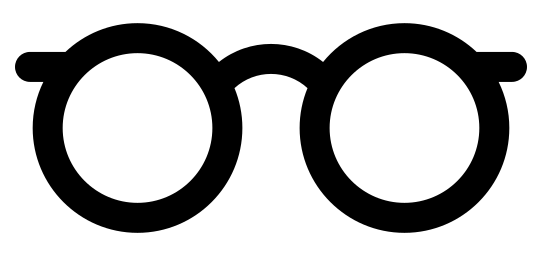
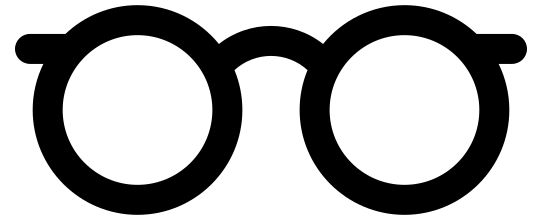
made heart and comment adaptive

diff --git a/script.js b/script.js
@@ -175,59 +175,118 @@ let books = [
 ]
 
 function loadBooks() {
-    const booksLocation = document.getElementById("contentsID");
     for (let index = 0; index < books.length; index++) {
-        booksLocation.innerHTML += `
-         <div class="book-outlay">
-             <div class="book-content">
-             <h2>${books[index].name}</h2>
-             <img class="book-icon" src="./assets/book2.png" alt="Buch Icon"></img>
-                <div class ="price-and-likes">
-                <p>${books[index].price.toFixed(2)} Є</p>
-                    <div class="likes">
-                    <p>${books[index].likes}</p>
-                    <img src="./assets/heart_icon.svg" alt="Herz Icon"></img>
-                    </div>
-                </div>
-             <table class="book-info">
-             <tr>
-                <td><b>Autor:</b></th>
-                <td>${books[index].author}</th>
-             </tr>
-             <tr>
-               <td><b>Erscheinungsjahr:</b></td>
-                <td>${books[index].publishedYear}</td>
-             </tr>
-             <tr>
-                <td><b>Genre:</b></td>
-                <td>${books[index].genre}</td>
-             </tr>
-             </table>
-             <h3>Kommentare:</h3>
-                <div class="comments">
-                ${getComments(index)}
-                </div>
-             </div>
-             <input class="pages" type="text" placeholder="  Schreibe einen Kommentar">
-         </div>
-                
-  `
+        loadBookTemplate(index);
+        renderFavoriteIcon(index);
     }
 }
 
+function loadBookTemplate(index) {
+    const booksLocation = document.getElementById("contentsID");
+    booksLocation.innerHTML += `
+         <div id="book${index}" class="book-outlay">
+             <div class="book-content">
+                 <h2>${books[index].name}</h2>
+                 <img class="book-icon" src="./assets/book2.png" alt="Buch Icon"></img>
+                 <div class ="price-and-likes">
+                    <p>${books[index].price.toFixed(2).toString().replace('.', ',')} Є</p>
+                         <div class="likes">
+                             <p id="likedAmountID${index}">${books[index].likes}</p>
+                             <svg id="heartID${index}" class="heart" xmlns="http://www.w3.org/2000/svg" width="32" height="32" viewBox="0 0 32 32">
+                             <path onmousedown="whileHeartClicking(${index})" onmouseup="adjustFavorite(${index})" d="M16 24.675C15.7667 24.675 15.5292 24.6333 15.2875 24.55C15.0458 24.4667 14.8333 24.3333 14.65 24.15L12.925 22.575C11.1583 20.9583 9.5625 19.3542 8.1375 17.7625C6.7125 16.1708 6 14.4167 6 12.5C6 10.9333 6.525 9.625 7.575 8.575C8.625 7.525 9.93333 7 11.5 7C12.3833 7 13.2167 7.1875 14 7.5625C14.7833 7.9375 15.45 8.45 16 9.1C16.55 8.45 17.2167 7.9375 18 7.5625C18.7833 7.1875 19.6167 7 20.5 7C22.0667 7 23.375 7.525 24.425 8.575C25.475 9.625 26 10.9333 26 12.5C26 14.4167 25.2917 16.175 23.875 17.775C22.4583 19.375 20.85 20.9833 19.05 22.6L17.35 24.15C17.1667 24.3333 16.9542 24.4667 16.7125 24.55C16.4708 24.6333 16.2333 24.675 16 24.675Z"/>
+                             </svg>
+                         </div>
+                 </div>
+                 <table class="book-info">
+                    <tr>
+                        <td><b>Autor:</b></td>
+                        <td>${books[index].author}</td>
+                    </tr>
+                    <tr>
+                        <td><b>Erscheinungsjahr:</b></td>
+                        <td>${books[index].publishedYear}</td>
+                    </tr>
+                    <tr>
+                        <td><b>Genre:</b></td>
+                        <td>${books[index].genre}</td>
+                    </tr>
+                 </table>
+                 <h3>Kommentare:</h3>
+                 <div id="commentsID${index}" class="comments">
+                     ${getComments(index)}
+                 </div>
+             </div> 
+             <div class="pages">
+                 <input id="inputID${index}" class="comment-input" type="text" placeholder="  Schreibe einen Kommentar...">
+                 <img onclick="comment(${index})" class="send-icon" src="./assets/send.png" alt="Send Icon"></img>
+             </div>
+         </div>        
+  `
+}
+
 function getComments(i) {
-    let comments = "";
+    let allComments = "";
     if (books[i].comments.length >= 1) {
-        
         for (let index = 0; index < books[i].comments.length; index++) {
-            comments +=`
+            allComments += `
                 <tr>
                 <td><b>${books[i].comments[index].name}:</b></td>
                 <td>${books[i].comments[index].comment}</td>
                 </tr>`
         }
-        return `<table>${comments}</table>`;
-    } else{
+        return `<table>${allComments}</table>`;
+    } else {
         return `<p>Schreibe hier den ersten Kommentar</p>`;
     }
+}
+
+// document.addEventListener('keydown', function (event) {
+//     if (event.key === 'Enter') {
+//         comment();
+//     }
+// }
+// )
+
+function comment(index){
+    let comment = document.getElementById(`inputID${index}`);
+    let obj = {};
+    obj["name"] = "Gast";
+    obj["comment"] = comment.value;
+    books[index].comments.push(obj);
+    updateComments(index);
+    comment.value = "";
+}
+
+function updateComments(index){
+let allComments = document.getElementById(`commentsID${index}`);
+allComments.innerHTML = getComments(index);
+}
+
+function renderFavoriteIcon(index) {
+    if (books[index].liked == true) {
+        document.getElementById(`heartID${index}`).classList.add('heart-filling');
+    }
+}
+
+function whileHeartClicking(index) {
+    document.getElementById(`heartID${index}`).classList.add('heart-darkred');
+}
+
+function adjustFavorite(index) {
+    if (books[index].liked == true) {
+        books[index].liked = false;
+        books[index].likes -= 1;
+    }
+    else {
+        books[index].liked = true;
+        books[index].likes += 1;
+    }
+    document.getElementById(`heartID${index}`).classList.remove('heart-darkred');
+    document.getElementById(`heartID${index}`).classList.toggle('heart-filling');
+    updateLikedNumber(index);
+}
+
+function updateLikedNumber(index) {
+    let likedAmount = document.getElementById(`likedAmountID${index}`);
+    likedAmount.innerHTML = books[index].likes;
 }

diff --git a/style.css b/style.css
@@ -16,9 +16,8 @@ header {
 }
 
 .glasses {
-    height: 36px;
+    height: 28px;
     object-fit: contain;
-    /* padding: 0 6px; */
 }
 
 body {
@@ -64,7 +63,7 @@ section {
 }
 
 .book-outlay {
-    height: 450px;
+    height: 460px;
     width: 300px;
     background-color: rgb(8, 67, 8);
     border: 1px black solid;
@@ -91,9 +90,7 @@ section {
 .book-icon {
     height: 64px;
     object-fit: contain;
-    /* padding: 16px; */
     border-radius: 10%;
-    /* background-color: #FFC900; */
 }
 
 .price-and-likes {
@@ -110,17 +107,33 @@ section {
     align-items: center;
 }
 
-.likes img {
-    background-color: lightblue;
+.heart{
+    color:red;
+    fill: transparent;
+    stroke: currentColor;
+    stroke-width: 2.5;
     border-radius: 50%;
-    margin: 0 8px;
+}
+
+.heart path:hover {
+    stroke: currentColor;
+    cursor: pointer;
+}
+
+.heart-darkred{
+    color: darkred;
+    stroke: darkred;
+}
+
+.heart-filling{
+    fill: currentColor;
 }
 
 .book-content table {
     padding: 4px 4px;
 }
 
-.book-info{
+.book-info {
     font-size: 14px;
 }
 
@@ -129,18 +142,18 @@ section {
     overflow-y: auto;
 }
 
-.comments p{
+.comments p {
     padding: 6px;
     color: lightgray;
 }
 
-.comments td{
+.comments td {
     vertical-align: top;
     font-size: 12px;
     color: lightgray;
 }
 
-.comments b{
+.comments b {
     font-size: 12px;
     color: lightgray;
 }
@@ -148,13 +161,35 @@ section {
 .pages {
     height: 36px;
     background-color: white;
+    font-size: 14px;
     width: 100%;
     border: rgb(4, 39, 4) 3px solid;
     border-right: none;
     border-radius: 20px 0 0 20px;
-    padding: 3px;
+    padding: 5px;
     box-sizing: border-box;
     bottom: 0px;
+    display: flex;
+    justify-content: space-between;
+    align-items: center;
+}
+
+.comment-input{
+    flex-grow: 1;
+    border: none;
+    height: 28px;
+    border-radius: 20px 0 0 20px;
+    margin-left: 0;
+    margin-right: 8px;
+}
+
+.send-icon{
+    height: 14px;
+    object-fit: contain;
+}
+
+.send-icon:hover {
+    cursor: pointer;
 }
 
 .book-shelf {
